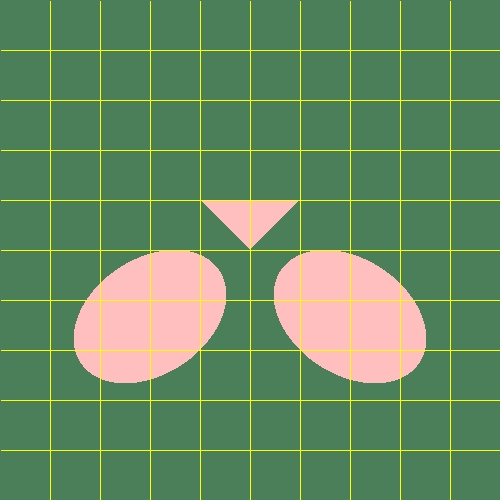
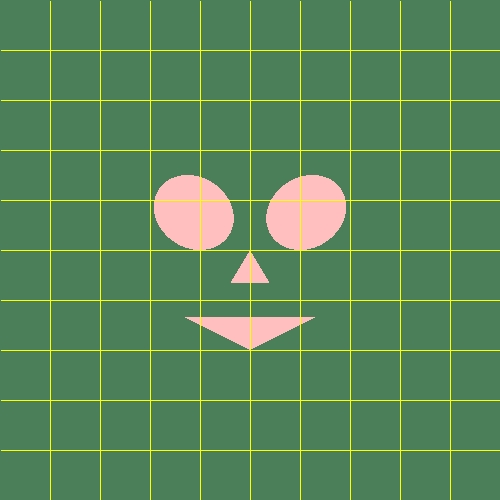
end of recitation 4 with :)

Changed region(s): [[0.15, 0.33, 0.87, 0.78]]

diff --git a/src/unittests/renderer/RenderTests.java b/src/unittests/renderer/RenderTests.java
@@ -58,10 +58,11 @@ public class RenderTests {
         scene.setBackground(new Color(75, 127, 90));
         scene.setAmbientLight(new AmbientLight(new Color(255, 191, 191), 1));
 
-        scene.addGeometries(new Sphere(50, new Point3D(75, 50, 100)),
-                new Sphere(50, new Point3D(-75, 50, 100)));
+        scene.addGeometries(new Sphere(50, new Point3D(75, -50, 150)),
+                new Sphere(50, new Point3D(-75, -50, 150)));
 
-        scene.addGeometries(new Triangle(new Point3D(-50, -50, 100), new Point3D(50, -50, 100), new Point3D(0, 0, 100)));
+        scene.addGeometries(new Triangle(new Point3D(-30, 50, 150), new Point3D(30, 50, 150), new Point3D(0, 0, 150)),
+                new Triangle(new Point3D(100, 100, 150), new Point3D(-100, 100, 150), new Point3D(0, 150, 150)));
 
         ImageWriter imageWriter = new ImageWriter("ourImage", 500, 500, 500, 500);
         Render render = new Render(imageWriter, scene);
